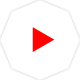
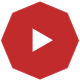
New GUI

diff --git a/www/css/index.css b/www/css/index.css
@@ -39,7 +39,7 @@ body {
 
 #navbar{
 top:0px;
-background:rgba(255,255,255,0.7);
+background:rgba(193,43,43,0.7);
 width:100%;
 height:55px;
 position:absolute;
@@ -65,7 +65,7 @@ position:absolute;
 }
 
 #background-profil {
-    background: rgba(0, 0, 0, 0) url("../img/back2.jpg") repeat scroll 38% 28% / 100% auto;
+    background: rgba(0, 0, 0, 0) url("../img/imgprofil.jpg") repeat scroll 38% 68% / 100% auto;
     height: 164px;
     position: absolute;
     width: 100%;
@@ -80,7 +80,7 @@ position:absolute;
     box-shadow: -1px 1px 11px -2px #0a0a0a;
 }
 #background-capture {
-    background: rgba(193, 43, 43, 1);
+    background: rgba(238, 238, 238, 0.7);
     height: 140px;
     position: fixed;
     width: 100%;
@@ -116,15 +116,14 @@ a {
 }
 
 h1 {
-    color: #ffffff;
+    color: #c12b2b;
+    font-family: "Marck Script",cursive;
     font-size: 60px;
     font-weight: 200;
     margin: 0;
     overflow: visible;
     padding: 0;
     text-align: center;
-    text-shadow: -2px 2px 10px #000000;
-    font-family: 'Marck Script', cursive;
 }
 
 h2 {
@@ -140,14 +139,13 @@ h2 {
 }
 
 h4 {
-    color: #ffffff;
+    color: #c12b2b;
     font-size: 16px;
     font-weight: 500;
     margin: 0;
     overflow: visible;
     padding: 0;
     text-align: center;
-    text-shadow: -2px 2px 10px #000000;
 }
 
 .copyright{
@@ -182,13 +180,15 @@ height:50px;
     width: 100px;
 }
 
-#capture h4 {
+#background-capture h4 {
     left: 9px;
     position: relative;
     top: 5px;
     width: 100%;
     text-align: center;
     margin: 0px -7px;
+    color: #c12b2b;
+    text-shadow:none;
 }
 
 #view {
@@ -225,8 +225,12 @@ height:50px;
     height: auto;
     left: 0;
     position: absolute;
-    top: 28px;
+    top: 18px;
     width: 120px;
+}
+
+.retour h4 {
+    color: #FFFFFF;
 }
 
 .fa-chevron-left {
@@ -274,6 +278,14 @@ height:50px;
     width: 40px;
 }
 
+.compte {
+    height: 40px;
+    position: absolute;
+    right: 65px;
+    top: 8px;
+    width: 40px;
+}
+
 .moment-nombre {
     height: auto;
     position: absolute;
@@ -298,3 +310,29 @@ height:50px;
 .thumb {
     width: 85px;
 }
+
+#social {
+    bottom: 55px;
+    height: 80px;
+    left: 50%;
+    position: absolute;
+    width: 300px;
+    margin: 0px -150px 0px;
+}
+#facebook {
+    width: 100px;
+    left: 0px;
+    position: absolute;
+}
+#twitter {
+    width: 100px;
+    left: 100px;
+    position: absolute;
+    top: 0px;
+}
+#gplus {
+    width: 100px;
+    position: absolute;
+    right: 0px;
+}
+

diff --git a/www/success.html b/www/success.html
@@ -36,7 +36,7 @@
         </style>
     </head>
     <body>
-    <div id="background2"></div>
+    <div id="navbar"></div>
     <div class="retour">
        <a href="index.html"><i class="fa fa-chevron-left"></i><h4>Profil</h4></a>
     </div>
@@ -44,7 +44,27 @@
         <h1>Félicitation !</h1>
         </div>
         <div id="textdesc">
-        <h4>Votre moment est sauvegardé. Vous pouvez partager la photo avec vos proches afin de découvrir votre moment capturé.</h4>
+        <h4>Votre moment est sauvegardé. Vous pouvez partager la photo avec vos proches sur le format que vous souhaitez ou directement sur les réseaux sociaux avec les boutons ci-dessous afin de découvrir votre moment capturé.</h4>
+        </div>
+       	<div id="social">
+       	<div id="facebook">
+        <button style="border: 0; background: transparent">
+         <img src="img/facebook.png"width="80" height="80"></img>
+        </button>
+        <h4>Facebook</h4>
+        </div>
+        <div id="twitter">
+        <button style="border: 0; background: transparent">
+         <img src="img/twitter.png"width="80" height="80"></img>
+        </button>
+        <h4>Twitter</h4>
+        </div>
+        <div id="gplus">
+        <button style="border: 0; background: transparent">
+         <img src="img/gplus.png"width="80" height="80"></img>
+        </button>
+        <h4>Google +</h4>
+        </div>
         </div>
         <script type="text/javascript" src="js/index.js"></script>
         <script type="text/javascript" charset="utf-8" src="json2.js"></script>

diff --git a/www/load.html b/www/load.html
@@ -53,7 +53,7 @@ font-size:30px;
     </script>
     </head>
     <body>
-    <div id="background2"></div>
+    <div id="navbar"></div>
     <div class="retour">
        <a href="index.html"><i class="fa fa-chevron-left"></i><h4>Retour</h4></a>
     </div>
@@ -75,7 +75,7 @@ font-size:30px;
             </script>
        <script type="text/javascript">     
             var circle = new ProgressBar.Circle('#progress', {
-    color: '#FFFFFF',
+    color: '#c12b2b',
     strokeWidth: 3,
     trailWidth: 1,
     duration: 3500,

diff --git a/www/index.html b/www/index.html
@@ -74,6 +74,7 @@
     <!-- HEADER PROFIL -->
     <div id="background-profil"></div>
     <img class="logout" src="img/logout.png"></img>
+    <img class="compte" src="img/compte.png"></img>
     <img class="profil-img" src="img/bella.jpg"></img>
         <div class="name">
             <h2>Bella</h2>

diff --git a/www/immortaliser.html b/www/immortaliser.html
@@ -125,7 +125,7 @@
         </style>
     </head>
     <body>
-    <div id="background2"></div>
+    <div id="navbar"></div>
     <div class="retour">
        <a href="index.html"><i class="fa fa-chevron-left"></i><h4>Retour</h4></a>
     </div>
